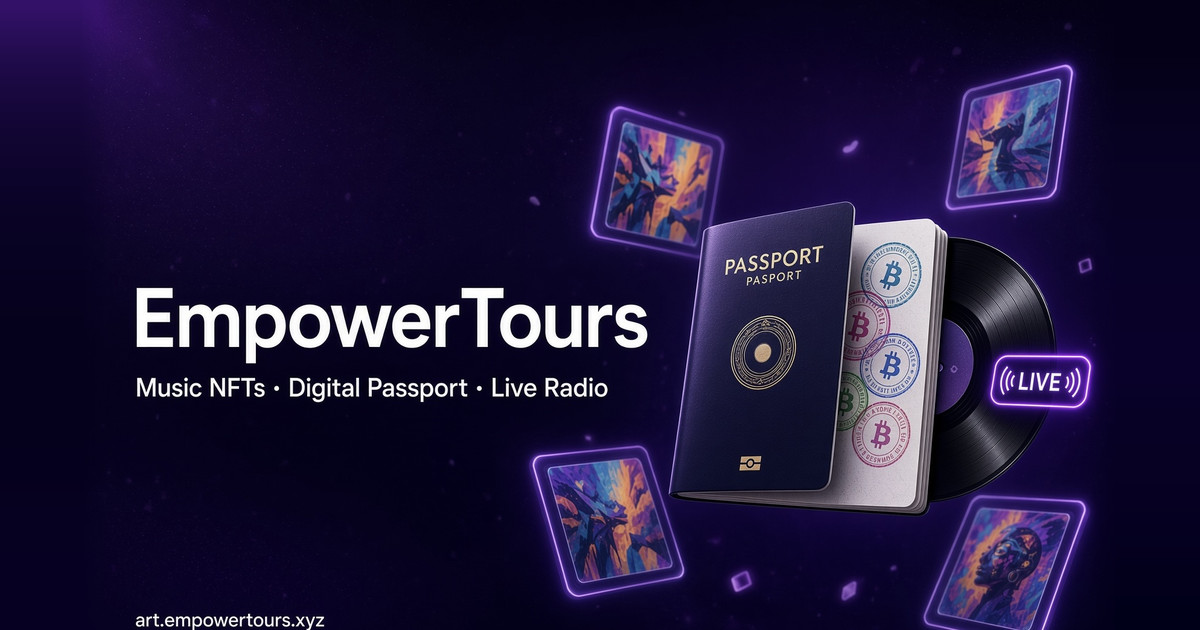
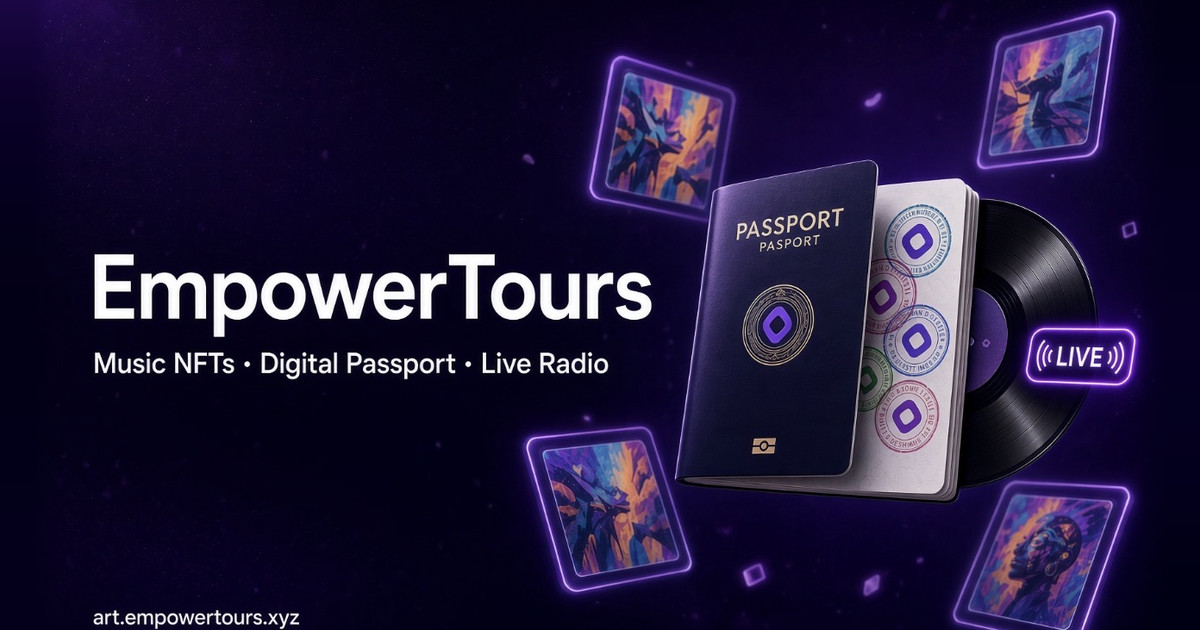
Use the Monad-stamp version of the social preview art
Same layout, with the passport stamps showing the Monad mark instead of
Bitcoin. Regenerated og-image and hero (1200x630) and feed (1200x800)
plus their .png fallbacks with the same background extension, and bumped
the cache-busting query to ?v=3 so Farcaster and X refetch.

diff --git a/app/.well-known/farcaster.json/route.ts b/app/.well-known/farcaster.json/route.ts
@@ -31,7 +31,7 @@ export async function GET(req: Request) {
       version: "1",
       iconUrl: `${origin}/images/icon.png`,
       homeUrl: `${origin}`,
-      imageUrl: `${origin}/images/feed.jpg?v=2`,
+      imageUrl: `${origin}/images/feed.jpg?v=3`,
       buttonTitle: "EmpowerTours",
       splashImageUrl: `${origin}/images/splash.png`,
       splashBackgroundColor: "#353B48",
@@ -41,13 +41,13 @@ export async function GET(req: Request) {
         "Mint and sell your art, music and travel NFTs onchain. Artists keep 90%. Works in Farcaster or any browser.",
       primaryCategory: "art-creativity",
       screenshotUrls: [`${origin}/images/screenshot1.png`],
-      heroImageUrl: `${origin}/images/hero.jpg?v=2`,
+      heroImageUrl: `${origin}/images/hero.jpg?v=3`,
       tags: ["art", "music", "travel", "nfts", "monad"],
       tagline: "Keep 90% of your work",
       ogTitle: "Art, Music and Travel Onchain",
       ogDescription:
         "Mint and sell your art, music and travel NFTs. Artists keep 90%.",
-      ogImageUrl: `${origin}/images/og-image.jpg?v=2`,
+      ogImageUrl: `${origin}/images/og-image.jpg?v=3`,
       castShareUrl: `${origin}/share-cast`,
     },
     accountAssociation: association,

diff --git a/app/layout.tsx b/app/layout.tsx
@@ -26,7 +26,7 @@ export const metadata: Metadata = {
     description: 'Mint and share Travel and Music NFTs on EmpowerTours.',
     images: [
       {
-        url: `${APP_URL}/images/og-image.jpg?v=2`,
+        url: `${APP_URL}/images/og-image.jpg?v=3`,
         width: 1200,
         height: 630,
         alt: 'EmpowerTours - Music NFTs, Digital Passport, Live Radio',
@@ -39,7 +39,7 @@ export const metadata: Metadata = {
     title: 'EmpowerTours - DigitalPassport',
     description: 'Mint and share Travel and Music NFTs on EmpowerTours.',
     creator: '@empowertours',
-    images: [`${APP_URL}/images/og-image.jpg?v=2`],
+    images: [`${APP_URL}/images/og-image.jpg?v=3`],
   },
   icons: {
     icon: '/images/icon.png',
@@ -55,7 +55,7 @@ export const metadata: Metadata = {
   // Farcaster Frame v2 / Mini App metadata
   other: {
     'fc:frame': 'vNext',
-    'fc:frame:image': `${APP_URL}/images/og-image.jpg?v=2`,
+    'fc:frame:image': `${APP_URL}/images/og-image.jpg?v=3`,
     'fc:frame:button:1': 'Open EmpowerTours',
     'fc:frame:button:1:action': 'launch_frame',
     'fc:frame:button:1:target': APP_URL,

diff --git a/app/page.tsx b/app/page.tsx
@@ -7,7 +7,7 @@ export async function generateMetadata(): Promise<Metadata> {
   // Mini App embed configuration
   const frame = {
     version: "1", // CRITICAL: Must be "1", not "next" or "vNext"
-    imageUrl: `${APP_URL}/images/feed.jpg?v=2`, // 3:2 aspect ratio
+    imageUrl: `${APP_URL}/images/feed.jpg?v=3`, // 3:2 aspect ratio
     button: {
       title: "Open EmpowerTours", // Max 32 characters
       action: {
@@ -26,7 +26,7 @@ export async function generateMetadata(): Promise<Metadata> {
     openGraph: {
       title: 'EmpowerTours - DigitalPassport',
       description: 'Mint and share Travel and Music NFTs on EmpowerTours.',
-      images: [`${APP_URL}/images/og-image.jpg?v=2`],
+      images: [`${APP_URL}/images/og-image.jpg?v=3`],
     },
     other: {
       "fc:miniapp": JSON.stringify(frame)
